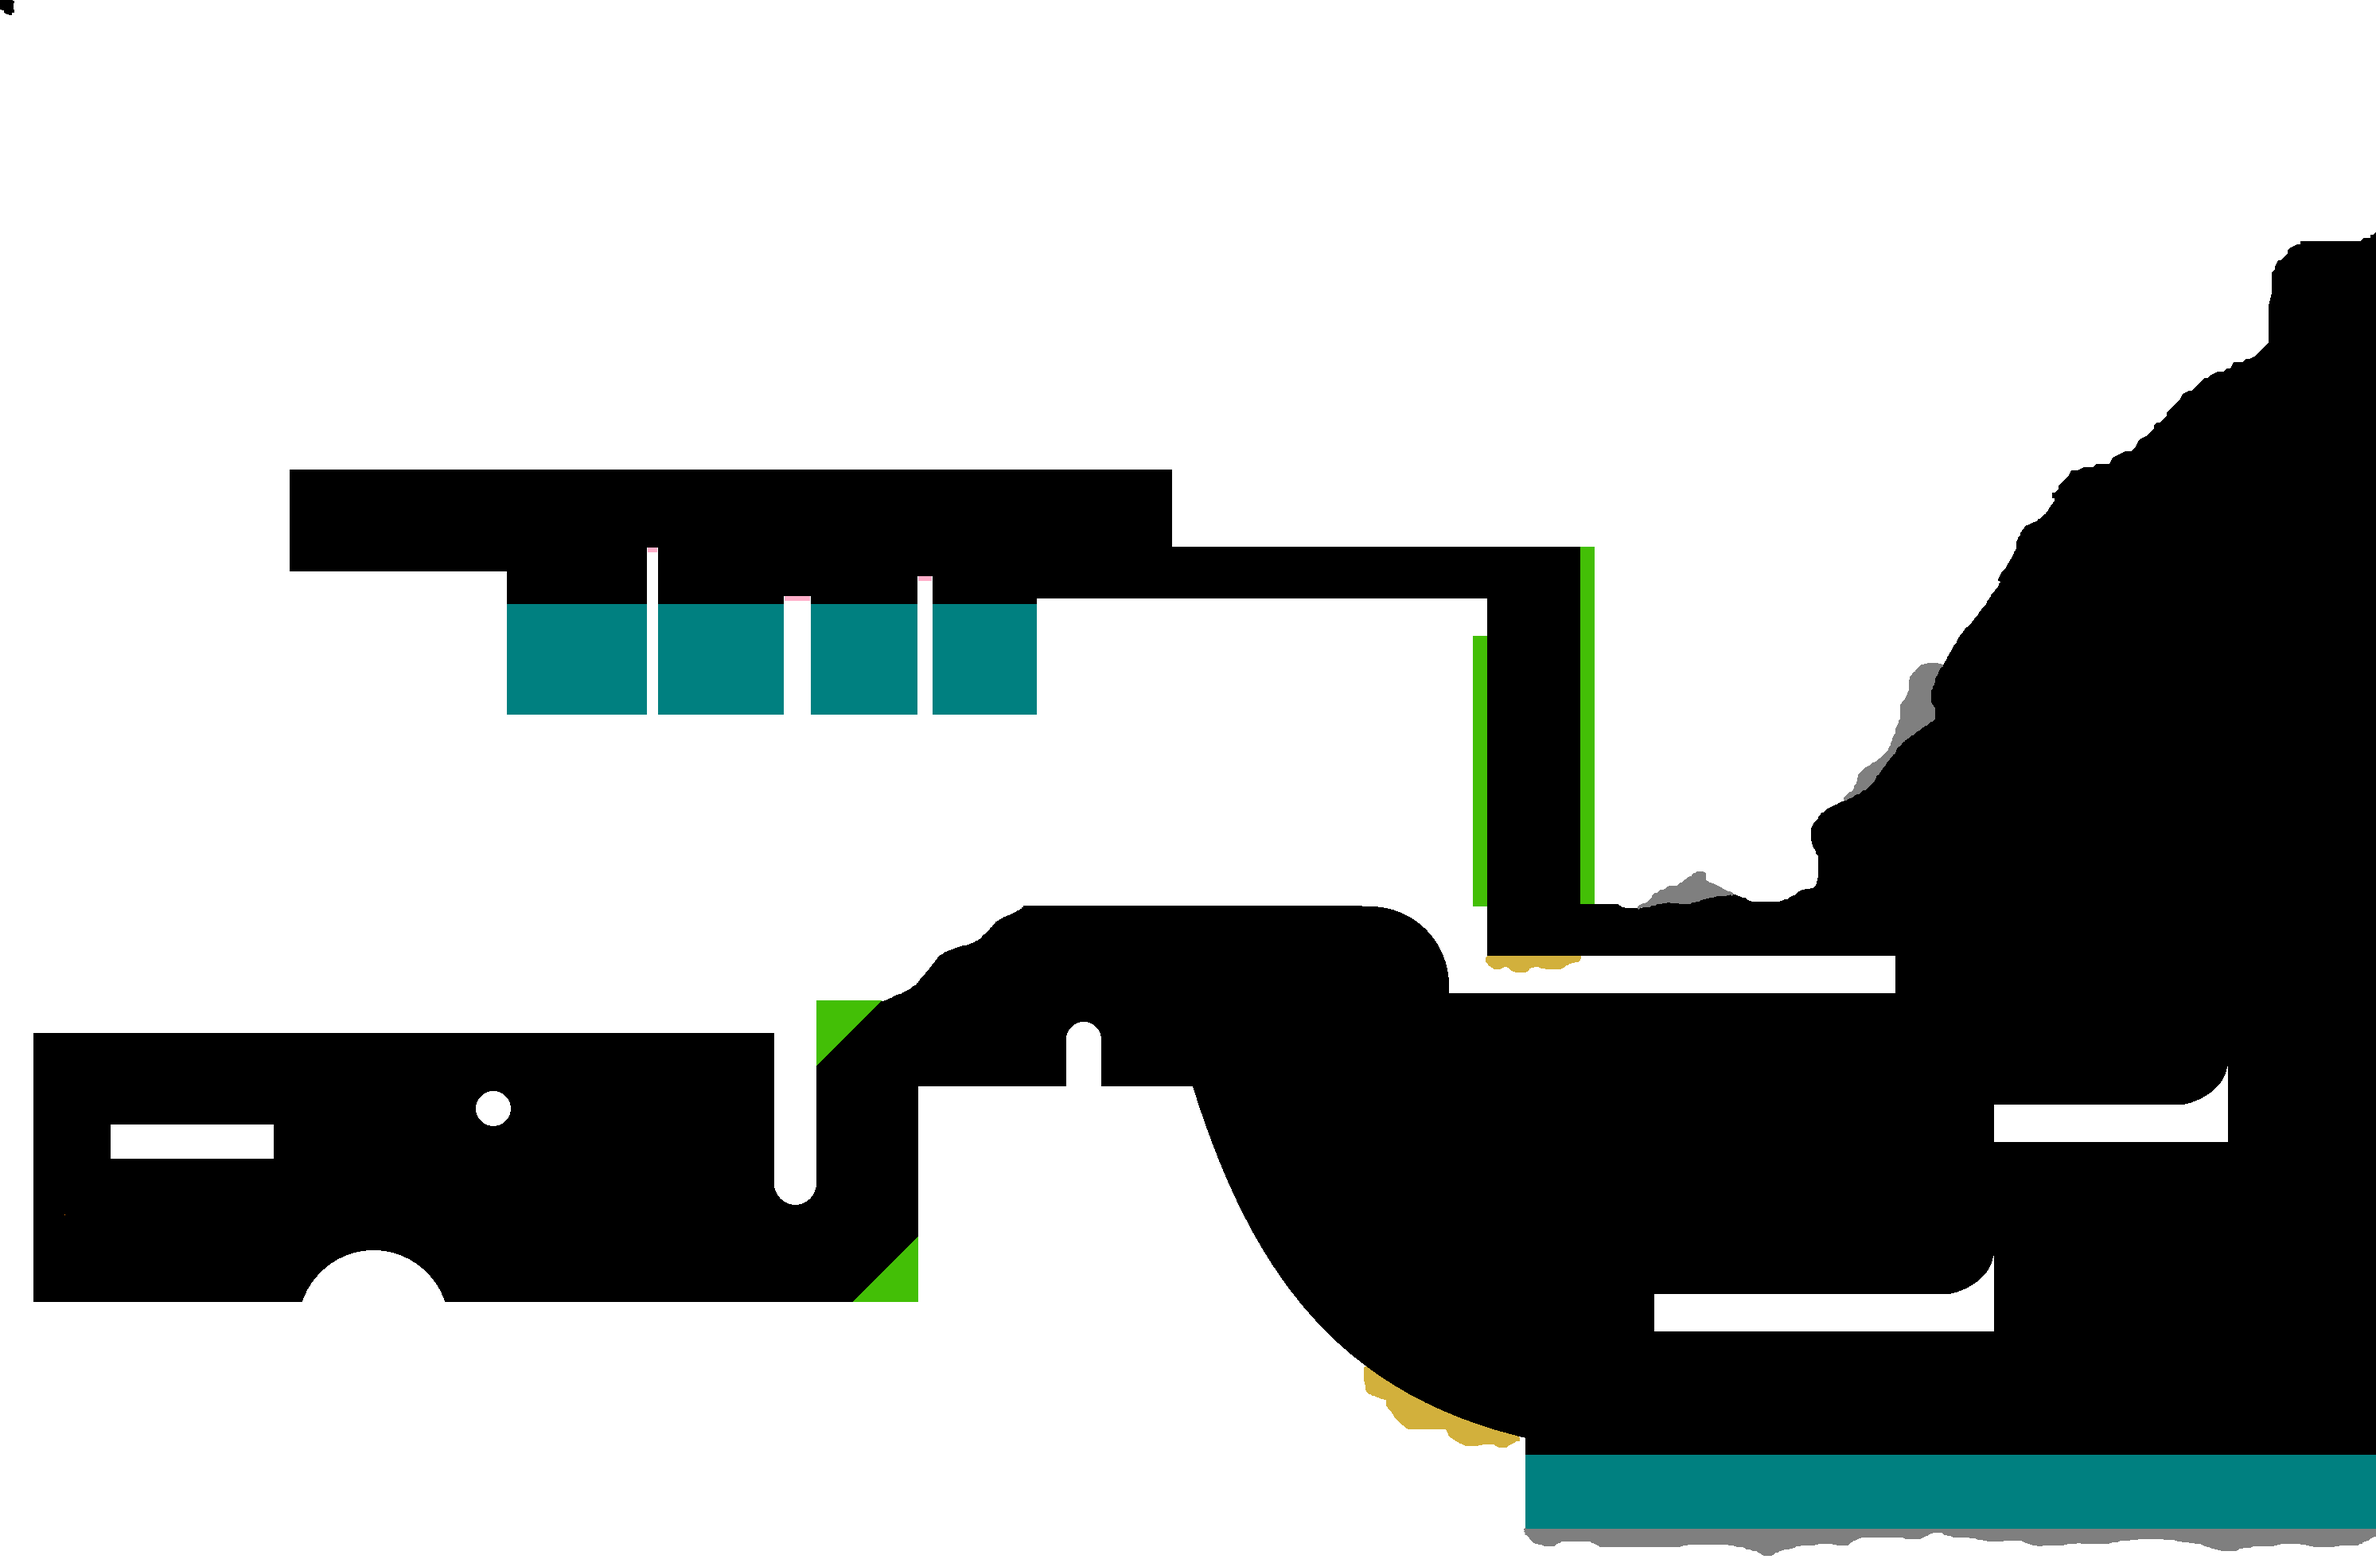
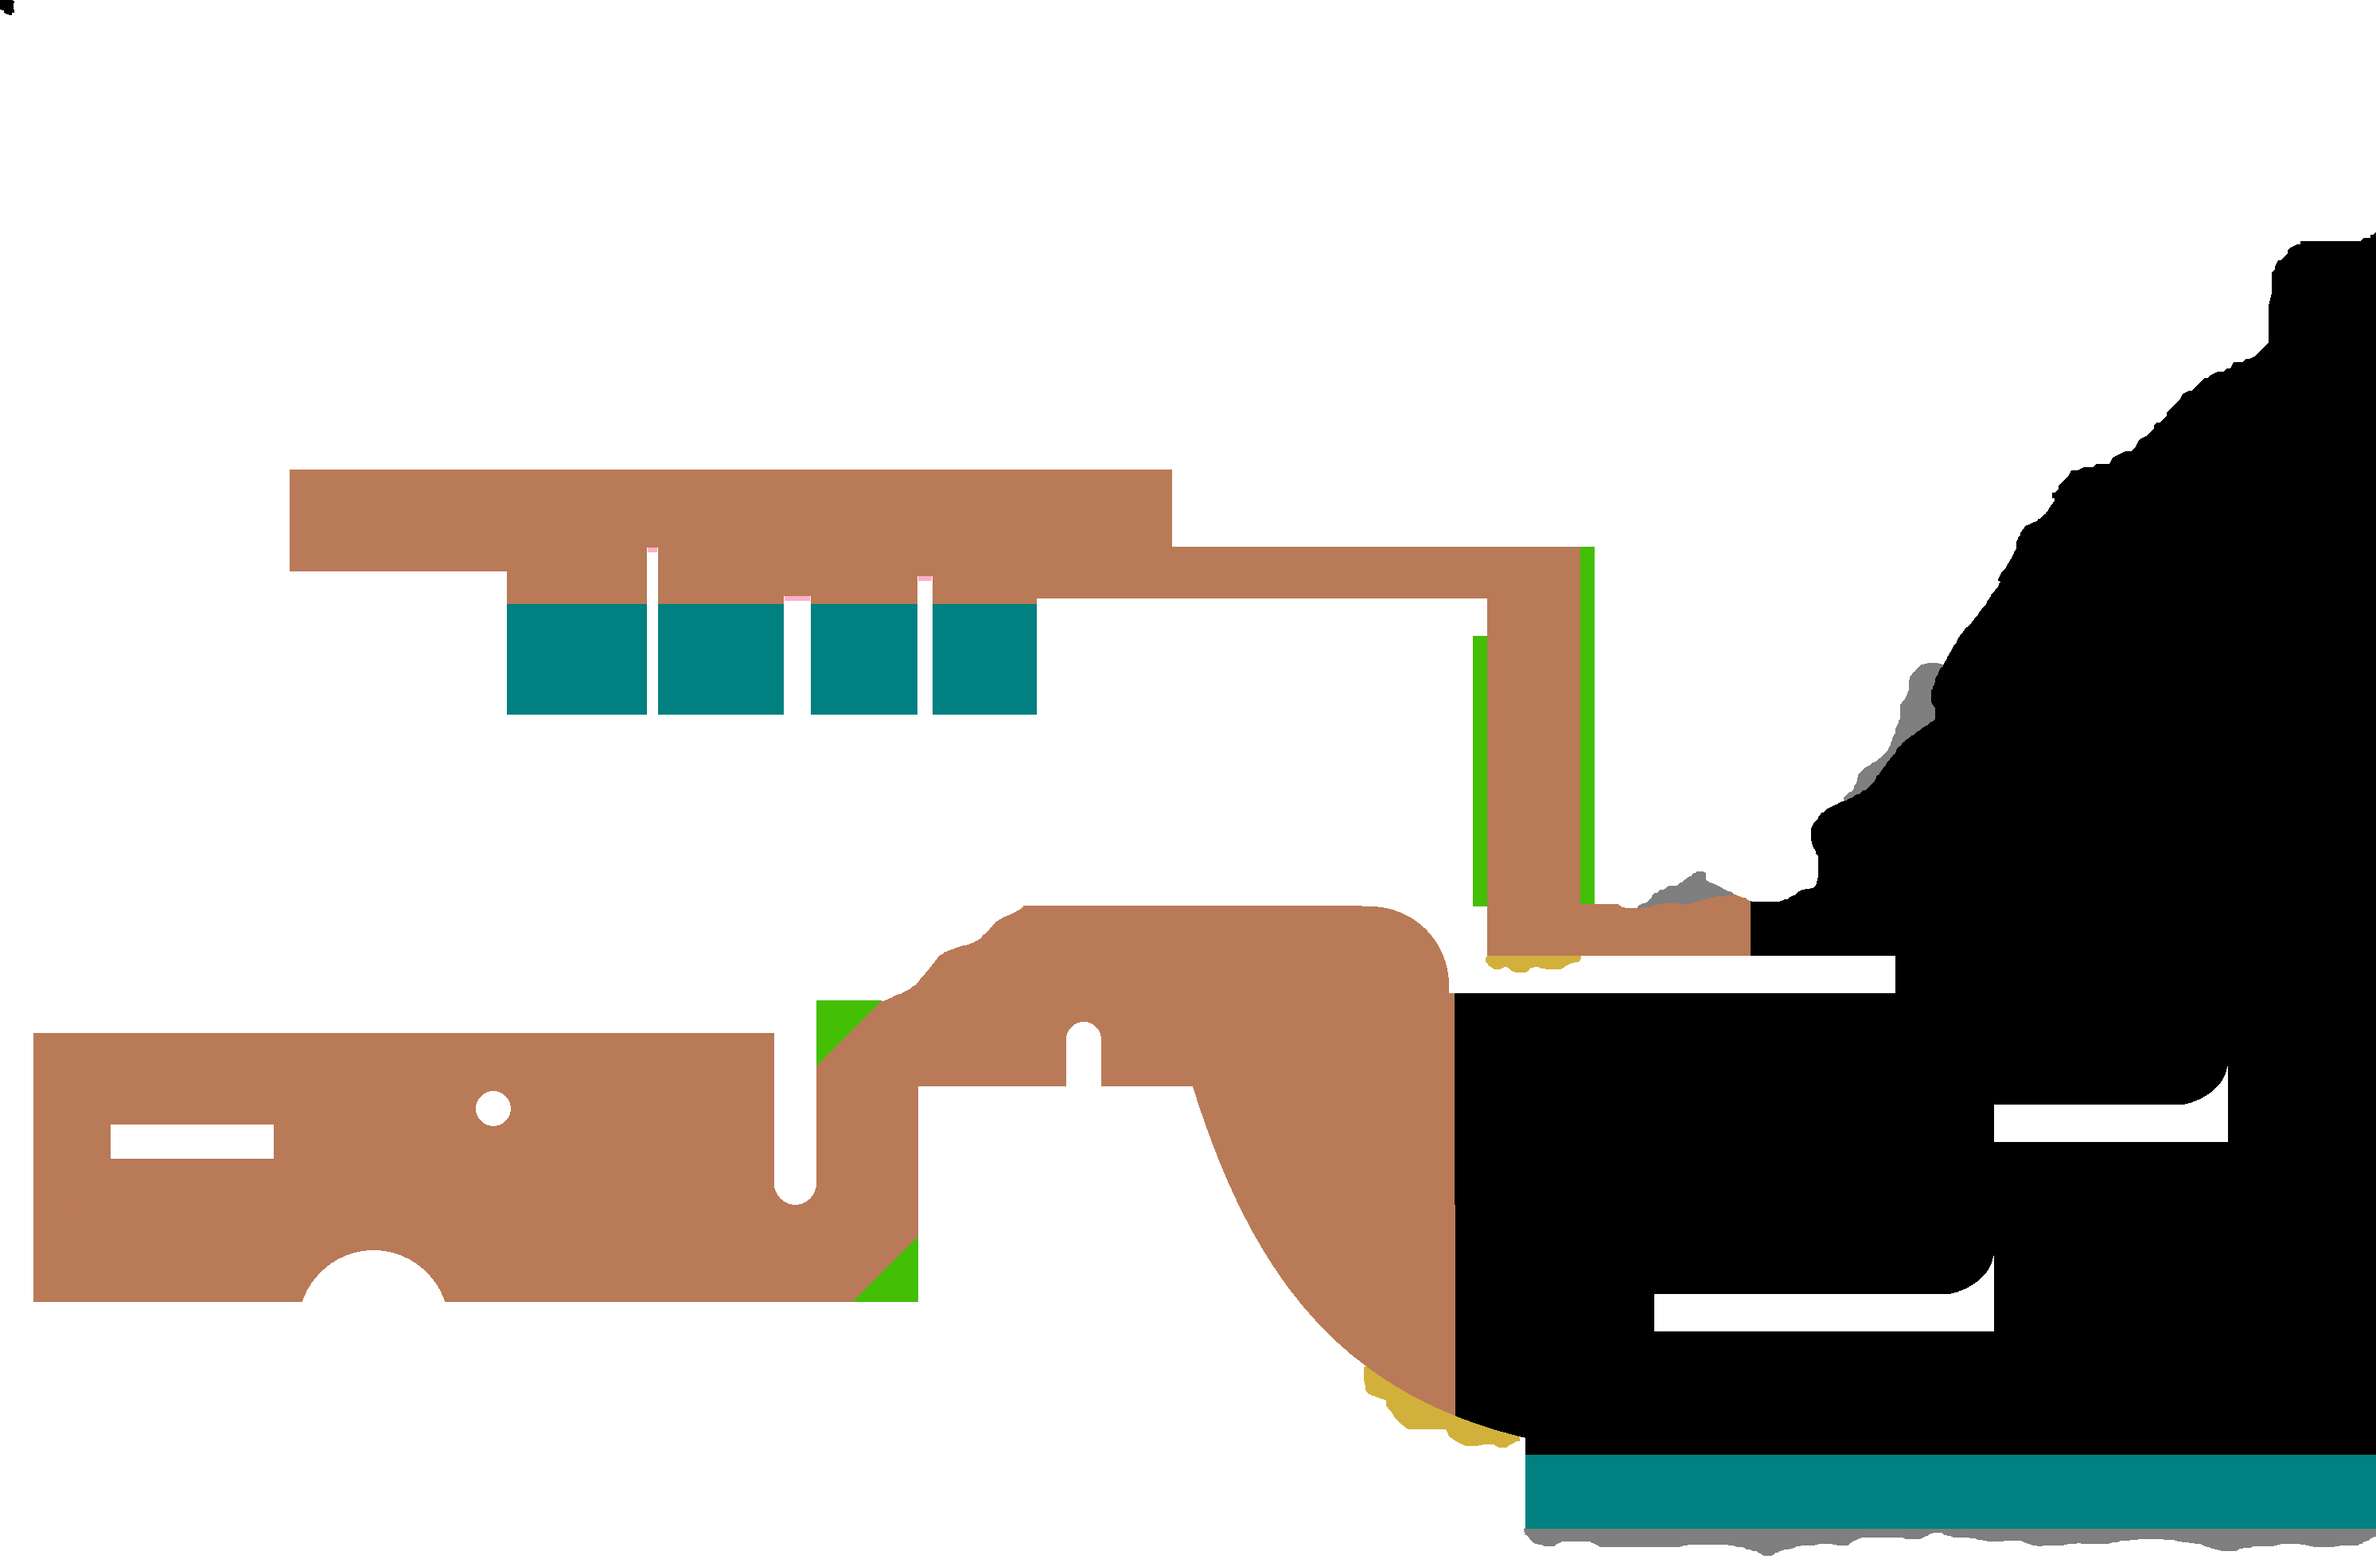
reset spacebar

Changed region(s): [[0.0, 0.2795, 0.7475, 0.9007]]

diff --git a/grenadudes/terrain_entity.cpp b/grenadudes/terrain_entity.cpp
@@ -24,6 +24,8 @@ EntityTerrain::EntityTerrain(float scale, std::string filename) {
     txtTerrainData.create(size.x, size.y); // for sfml rendering (passed to shader)
     data_pass();
     // load front-end textures
+    txtBg.loadFromFile("data/bg.png");
+    txtBg.setRepeated(true);
     txtSolid.loadFromFile("data/solid.png");
     txtSolid.setRepeated(true);
     txtWater.loadFromFile("data/water.png");
@@ -105,7 +107,11 @@ bool EntityTerrain::get_solid(sf::Vector2f pos) {
             &&
            !(terrain[base + 0] == 0 &&
              terrain[base + 1] == 128 &&
-             terrain[base + 2] == 128);
+             terrain[base + 2] == 128)
+            &&
+           !(terrain[base + 0] == 185 &&
+             terrain[base + 1] == 122 &&
+             terrain[base + 2] == 87);
 }
 
 TerrainType EntityTerrain::get_pos(sf::Vector2f pos) {
@@ -287,6 +293,7 @@ void EntityTerrain::draw(sf::RenderWindow &window) {
     sf::Sprite sprTerrain(txtSolid); // I think this has to be set for size only?
     sprTerrain.setTextureRect(sf::IntRect(0, 0, (int)size.x, (int)size.y));
     // pass parameters into shader
+    shdTerrain.setParameter("txtBg", txtBg);
     shdTerrain.setParameter("txtSolid", txtSolid);
     shdTerrain.setParameter("txtKill", txtWater);
     shdTerrain.setParameter("txtWeak", txtWeak);

diff --git a/grenadudes/ball_entity.cpp b/grenadudes/ball_entity.cpp
@@ -16,7 +16,7 @@ EntityBall::EntityBall() {
 }
 
 EntityBall::EntityBall(sf::Vector2f pos, sf::Vector2f vel){
-    position = pos;
+    position = prevRest = pos;
     velocity = vel;
     tag = "ball";
     collisionRadius = 8.f;
@@ -33,6 +33,10 @@ EntityBall::EntityBall(sf::Vector2f pos, sf::Vector2f vel){
 }
 
 void EntityBall::event(sf::Event &e) {
+    if (e.type == sf::Event::KeyPressed && e.key.code == sf::Keyboard::Space) {
+        rest = true;
+        position = prevRest;
+    }
     if (e.type == sf::Event::MouseButtonPressed && e.mouseButton.button == sf::Mouse::Left) {
         if (!dragging && rest) {
             dragging = true;
@@ -92,6 +96,7 @@ void EntityBall::tick(std::vector<Entity*> &entities) {
     }
     if (clkRest.getElapsedTime().asSeconds() > 1.f) {
         rest = true;
+        prevRest = position;
         position.y = contactPoint.y - collisionRadius - 1.f;
     }
 
@@ -137,6 +142,7 @@ void EntityBall::tick(std::vector<Entity*> &entities) {
             if (t == T_SLOW) bounceFactor = 0.3f;
             if (t == T_STICKY) {
                 rest = true;
+                prevRest = position;
                 bounceFactor = 0.0f;
             }
 

diff --git a/grenadudes/terrain_entity.h b/grenadudes/terrain_entity.h
@@ -58,6 +58,7 @@ private:
     sf::Uint8 *terrain; // terrain data
     sf::Texture txtTerrainData; // terrain data as a texture (updated at draw time)
     // terrain textures that are drawn
+    sf::Texture txtBg;
     sf::Texture txtSolid;
     sf::Texture txtWater;
     sf::Texture txtWeak;

diff --git a/grenadudes/ball_entity.h b/grenadudes/ball_entity.h
@@ -33,6 +33,7 @@ private:
     sf::Vector2f contactPoint;
     sf::Clock clkRest;
     bool rest;
+    sf::Vector2f prevRest;
 
     bool dragging; // is user dragging the mouse to select grenade direction & speed?
     sf::Vector2f dragStart;
